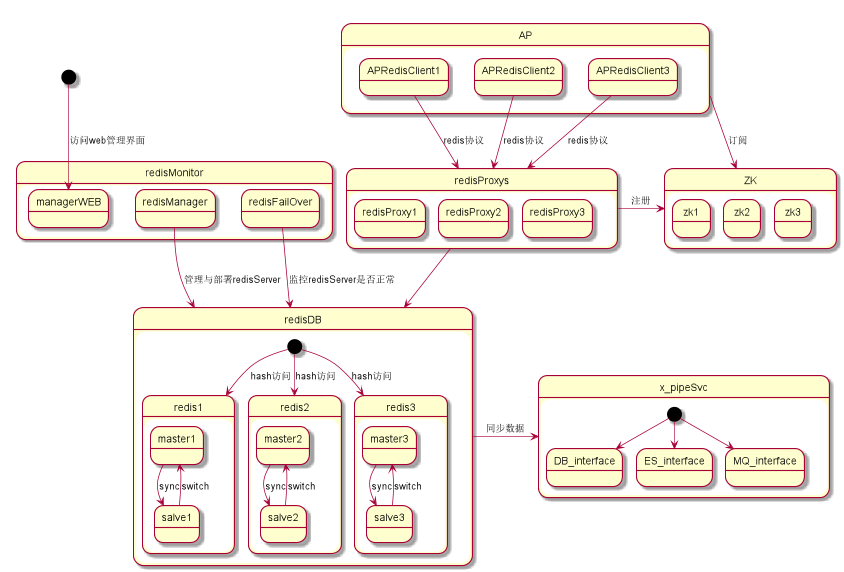
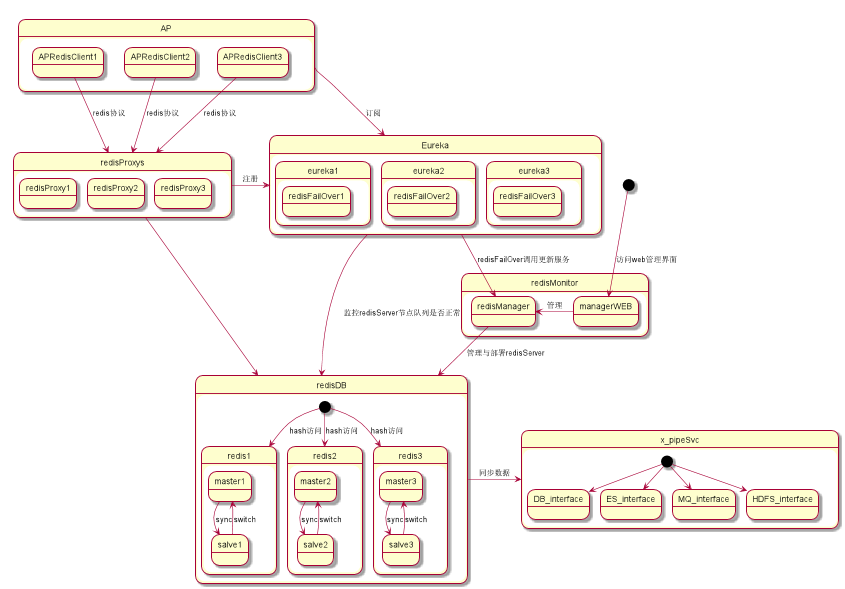
增加设计文档

diff --git a/README.md b/README.md
@@ -1,2 +1,96 @@
-# rains-redisproxy
-基于netty的通过redis协议访问的redisproxy中间件
+rains-redisproxy
+================
+
+rains-redisproxy 是一个开源Redis中间件服务，支持redis协议通信，使用普通的redis客户端即可，无须修改业务应用程序任何代码与配置，与业务解耦；
+以netty 作为通信传输工具，让它具有高性能，高并发，可分布式扩展部署等特点；使用用eureka做redisProxy服务注册与发现中心使得分布式扩展部署更加
+简单，配置更加简洁。
+
+ # Features
+
+  * **框架特性**
+ 
+      * 自带连接池，简单稳定且性能高效。
+
+      * 支持读写分离，可配置调度算法 。
+
+      * 默认支持一致性哈希分片策略，扩展性强 。
+
+      * 支持HA 分布式部署，节点可随意扩展。
+
+      * 管理监控功能丰富，可自动增加减少redis节点部署。
+
+      * 使用eureka可以自动注册发现服务，动态调整有效节点，减少配置。
+
+
+ * ***redisproxy角色***
+
+   * AP应该使用普通redis客户端访问redisProxy
+
+   * redisProxy核心部分，实现redis协议通信，通过调度算法，访问redis
+
+   * 注册中心eureka,使用得redisPoxy自动注册发现。
+   
+   * redisProxy管理应用，通过界面可以部署与监控redis。
+   
+    * xpipe同步所有redis节点的数据，备份缓存数据、跨机房数据同步、缓存数据热备(todo)。
+
+ * ***技术方案***
+
+   * redisProxy通过netty实现redis的通信协议与客户端、redis主从访问，redisProxy采用eureka做注册中心达到自动注册发现redisProx服务，做到高可用。
+
+   * AP要访问redisProxy通过普通redis客户端即可；也可加入eureka客户端达到自动发现redisProxy的服务。
+   
+   * 通过伪装redis的slave对redis数据统一备份，与第三方系统对接，例如实时计算平台等(todo)
+
+
+# Design
+ ### [架构设计]
+ *      redisProxy总体架构设计(初稿)
+ ![](./doc/design/rains_redisProxy.png)
+  *     redisProxy模块大体设计(初稿)
+ ![](./doc/design/rains_redisProxyComponent.png)
+
+#   Configuration
+
+  ###  [配置详解](https://github.com/hugoDD/rains-transaction/wiki/configuration%EF%BC%88%E9%85%8D%E7%BD%AE%E8%AF%A6%E8%A7%A3%EF%BC%89)
+
+
+# Prerequisite
+
+  *   #### JDK 1.8+
+
+  *   #### Maven 3.2.x
+
+  *   #### Git
+
+  *   ####  netty 。
+
+# Quick Start
+
+   * ### Clone & Build
+      ```
+      > git clone https://github.com/hugoDD/rains-redisproxy.git
+   
+      > cd rains-redisproxy
+   
+      > mvn -DskipTests clean install -U
+      ```
+
+  
+
+# User Guide
+
+###  [dubbo 用户](https://github.com/hugoDD/rains-redisproxy)
+
+
+
+
+
+
+# FAQ
+
+* ### 为什么我下载的代码后，用idea打开没有相应的get set 方法呢？
+   ##### 答：因为框架使用了Lombok包，它是在编译的时期，自动生成get set方法，并不影响运行，如果觉得提示错误难受，请自行下载lombok包插件，[lombok官网](http://projectlombok.org/)
+
+
+
